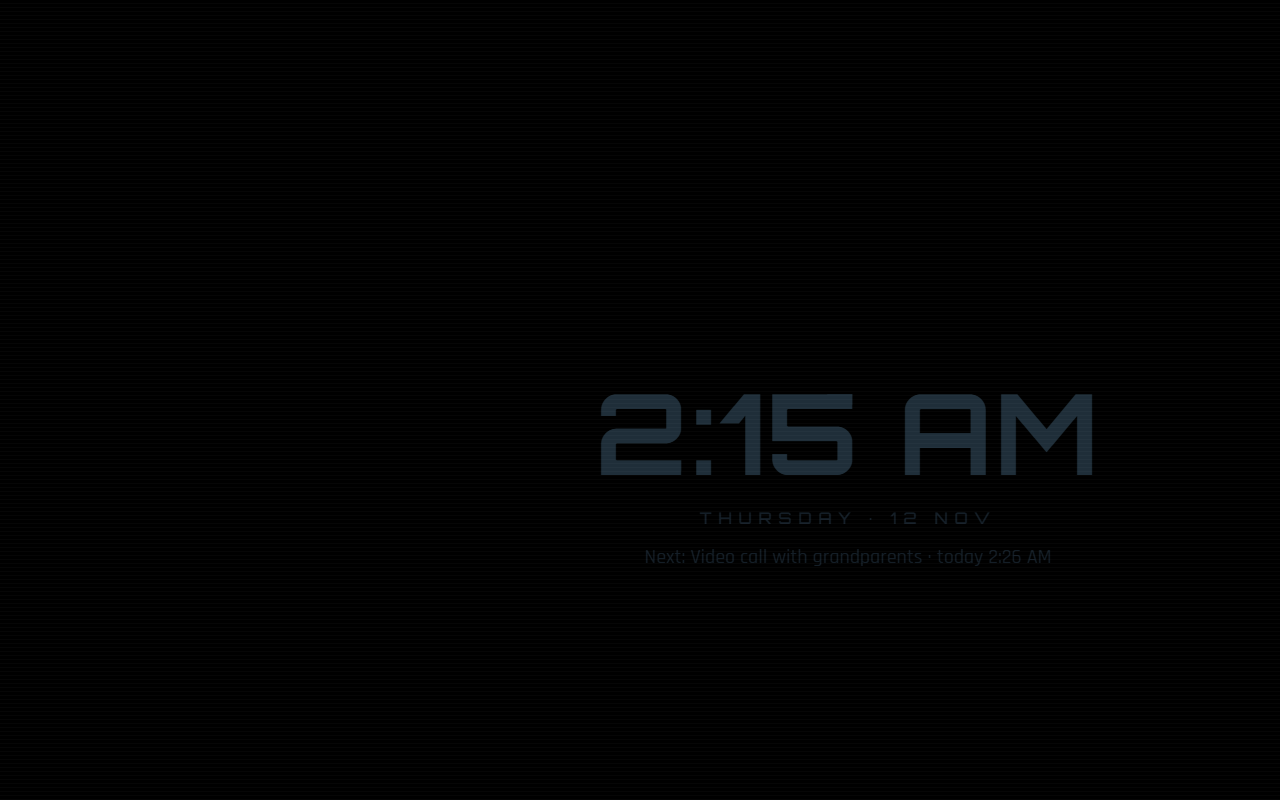
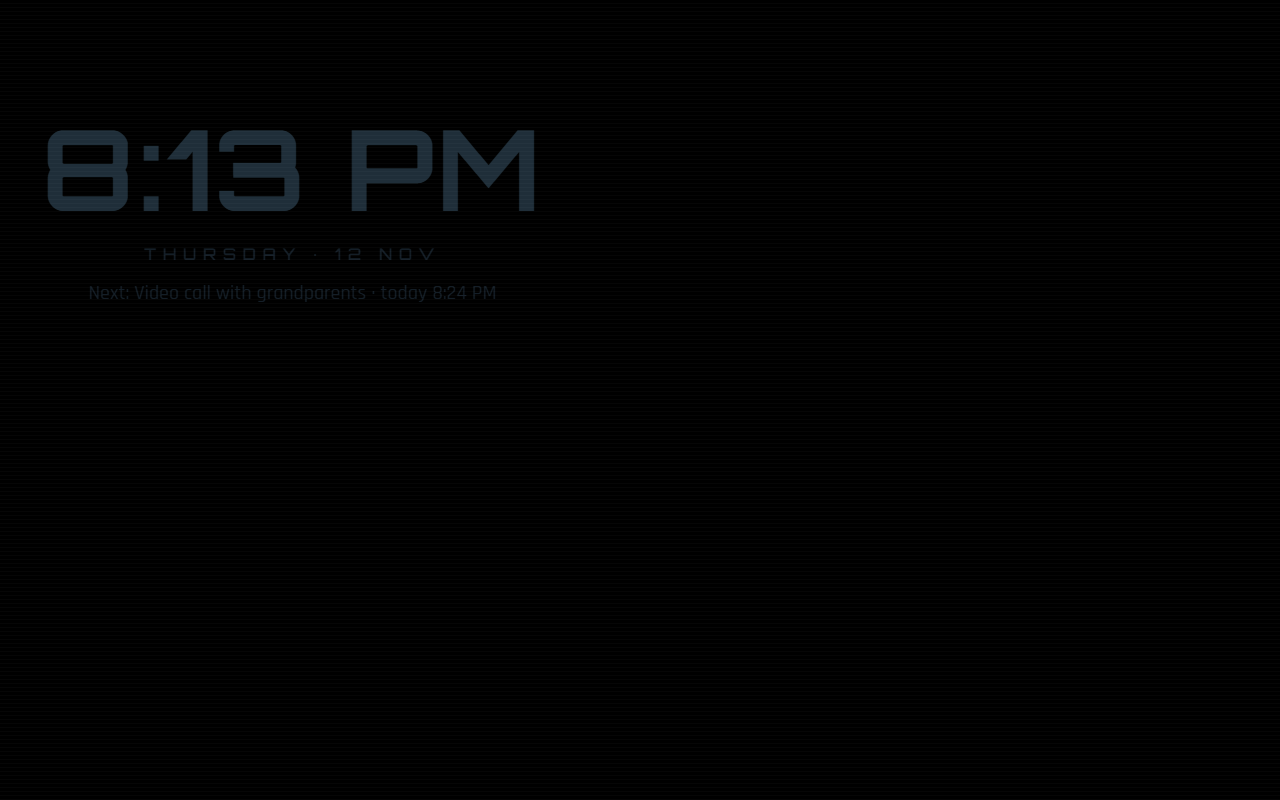
Add portrait layout, faster calendar sync, and fix day-column overflow
- Layout follows the tablet: 960x600 landscape stage, new 600x960 portrait
  stage with stacked priority/weather and a full-width timeline; overlays
  (briefing, alerts, day detail, mantra, night clock) adapt to portrait
- Calendar sync: refresh every 2 minutes, 1-minute server cache, and tapping
  the logo forces a fresh read (getData force flag)
- Fix week columns growing past the panel and cutting off the last event
  instead of showing "+N MORE" (grid rows now minmax(0,1fr)); re-fit after
  web fonts load and after rotation
- Docs: portrait screenshot, auto-rotate and fast-sync notes; regenerated
  screenshots; ignore local editor settings

diff --git a/src/dashboard.html b/src/dashboard.html
@@ -118,8 +118,8 @@ body{background:radial-gradient(1100px 650px at 72% -12%,#0c2a58 0%,transparent 
 
 /* ---------- week ---------- */
 #pWeek{left:304px;top:54px;width:646px;height:390px;padding:10px 10px 8px}
-#cols{position:absolute;left:10px;right:10px;top:30px;bottom:9px;display:grid;grid-template-columns:repeat(7,1fr);gap:6px}
-.col{position:relative;display:flex;flex-direction:column;min-width:0;background:rgba(255,255,255,.018);border:1px solid var(--line2);cursor:pointer}
+#cols{position:absolute;left:10px;right:10px;top:30px;bottom:9px;display:grid;grid-template-columns:repeat(7,1fr);grid-template-rows:minmax(0,1fr);gap:6px}
+.col{position:relative;display:flex;flex-direction:column;min-width:0;min-height:0;background:rgba(255,255,255,.018);border:1px solid var(--line2);cursor:pointer}
 .col.today{border-color:rgba(62,232,255,.6);background:linear-gradient(180deg,rgba(62,232,255,.10),rgba(62,232,255,.02) 40%);box-shadow:0 0 18px rgba(62,232,255,.15) inset}
 .col.wkend .dow{color:var(--violet)}
 .ch{padding:6px 6px 5px;border-bottom:1px solid var(--line2);display:flex;align-items:flex-end;justify-content:space-between}
@@ -256,6 +256,35 @@ body{background:radial-gradient(1100px 650px at 72% -12%,#0c2a58 0%,transparent 
 #bootTxt .wn{color:var(--amber)}
 #bootBar{position:absolute;left:60px;right:60px;top:430px;height:3px;background:var(--line2)}
 #bootBar i{display:block;height:100%;width:0;background:linear-gradient(90deg,var(--cyan),var(--violet));box-shadow:0 0 12px var(--cyan);transition:width 2.2s cubic-bezier(.2,.7,.2,1)}
+
+/* ---------- portrait (tablet held upright): 600×960 stage ---------- */
+body.portrait #stage{width:600px;height:960px}
+body.portrait #wxMini,body.portrait #snd.on{display:none}
+body.portrait #logo .t2{display:none}
+body.portrait #ticker{font-size:9.5px;letter-spacing:1.5px}
+body.portrait #pClock{left:10px;top:54px;width:284px;height:300px}
+body.portrait #pNext{left:304px;top:54px;width:286px;height:146px;padding:14px 16px}
+body.portrait #pNext #nxTitle{font-size:20px;white-space:normal;display:-webkit-box;-webkit-line-clamp:2;-webkit-box-orient:vertical;margin-top:10px}
+body.portrait #pNext #nxCount{margin-top:10px}
+body.portrait #pWx{left:304px;top:208px;width:286px;height:146px;padding:14px 16px}
+body.portrait #wxMain{margin-top:12px !important}
+body.portrait #pWeek{left:10px;top:362px;width:580px;height:448px}
+body.portrait #cols{gap:4px}
+body.portrait .ev .nm{-webkit-line-clamp:3}
+body.portrait #pTx{left:10px;top:818px;width:580px;height:132px}
+body.portrait .q{font-size:17px}
+body.portrait .q.big{font-size:19px}
+body.portrait .dev{font-size:16px}
+body.portrait #dayOv .panel{left:24px;right:24px;top:60px;bottom:60px}
+body.portrait #alertBox{width:540px}
+body.portrait #mBox{left:30px;right:30px}
+body.portrait #mLines .ln{font-size:24px}
+body.portrait #bBox{left:36px;right:36px;top:40px;bottom:40px}
+body.portrait #bGrid{flex-direction:column;gap:16px}
+body.portrait #bWx{width:auto;display:flex;align-items:center;gap:16px}
+body.portrait #bWx .m{margin-top:0}
+body.portrait #bQuote{right:0;bottom:70px}
+body.portrait #toast{left:20px;right:20px;width:auto}
 
 #toast{position:absolute;right:20px;bottom:20px;width:300px;z-index:42;padding:12px 14px;display:none;background:linear-gradient(var(--panel2),var(--panel2)) padding-box,linear-gradient(140deg,var(--green),rgba(62,232,255,.3)) border-box}
 #toast.show{display:block;animation:slideIn .5s ease-out}
@@ -418,7 +447,7 @@ const CFG = Object.assign({
   reminderMinutes:[1440,180,60], headsUpMinutes:15,
   nightMode:{start:'22:30',end:'05:30'},
   mantraAutoplay:{morning:'06:30',evening:'19:00'},
-  morningBriefing:'07:15', refreshMinutes:10
+  morningBriefing:'07:15', refreshMinutes:2
 }, window.FD_CONFIG || {});
 
 /* =====================================================================
@@ -1119,8 +1148,8 @@ if ('speechSynthesis' in window) { try { speechSynthesis.onvoiceschanged = () =>
 const GAS = !!(window.google && google.script && google.script.run);
 function withTimeout(p, ms) { return Promise.race([p, new Promise((_, rej) => setTimeout(() => rej(new Error('timeout')), ms))]); }
 function gas(fn, ...args) { return new Promise((res, rej) => google.script.run.withSuccessHandler(res).withFailureHandler(rej)[fn](...args)); }
-async function apiData() {
-  if (GAS) return JSON.parse(await withTimeout(gas('getData', window.FD_KEY || ''), 45000));
+async function apiData(force) {
+  if (GAS) return JSON.parse(await withTimeout(gas('getData', window.FD_KEY || '', !!force), 45000));
   const r = await withTimeout(fetch('api/data', { cache: 'no-store' }), 20000);
   if (!r.ok) throw new Error('HTTP ' + r.status);
   return r.json();
@@ -1135,10 +1164,10 @@ async function apiWeather(lat, lon) {
 const ymd = (s) => { const [y, m, d] = String(s).split('-').map(Number); return new Date(y, m - 1, d); };
 
 let retryTimer = null;
-async function loadData() {
+async function loadData(force) {
   let payload = null;
   try {
-    payload = await apiData();
+    payload = await apiData(force === true);
     store.set('nx-cache', payload);
     S.lastSync = Date.now(); store.set('nx-lastSync', S.lastSync); S.syncErr = null;
   } catch (e) {
@@ -1595,7 +1624,8 @@ function renderNight(now) {
   $('#nN').textContent = t ? `Next: ${t.title} · ${dayWord(t.start, now).toLowerCase()} ${fmtTime(t.start)}` : '';
   if (now.getSeconds() === 0 || !ov.dataset.placed) {
     ov.dataset.placed = 1; const nc = $('#nightClock');
-    nc.style.left = (180 + Math.random() * 300) + 'px'; nc.style.top = (120 + Math.random() * 260) + 'px';
+    const w = nc.offsetWidth || 500, h = nc.offsetHeight || 160; // drift within the current stage (landscape or portrait)
+    nc.style.left = (20 + Math.random() * Math.max(0, STAGE.w - w - 40)) + 'px'; nc.style.top = (60 + Math.random() * Math.max(0, STAGE.h - h - 120)) + 'px';
   }
 }
 
@@ -1688,9 +1718,16 @@ function tick() {
   if (now.getHours() === 3 && now.getMinutes() === 30 && now.getSeconds() === 0) location.reload();
 }
 
+/* Layout follows how the tablet is held: 960×600 landscape stage, or 600×960 portrait stage. */
+const STAGE = { w: 960, h: 600 };
 function fit() {
-  const s = Math.min(innerWidth / 960, innerHeight / 600);
+  const portrait = innerHeight > innerWidth * 1.05;
+  const changed = portrait !== document.body.classList.contains('portrait');
+  document.body.classList.toggle('portrait', portrait);
+  STAGE.w = portrait ? 600 : 960; STAGE.h = portrait ? 960 : 600;
+  const s = Math.min(innerWidth / STAGE.w, innerHeight / STAGE.h);
   $('#stage').style.transform = `translate(-50%,-50%) scale(${s})`;
+  if (changed && S.events) { try { renderWeek(); } catch (e) {} setTimeout(() => { try { renderWeek(); } catch (e) {} }, 400); delete $('#nightOv').dataset.placed; }
 }
 function stars() {
   let sh = []; const W = Math.max(innerWidth, 1400), H = Math.max(innerHeight, 900) * 2;
@@ -1721,6 +1758,9 @@ async function keepAwake() {
 function init() {
   $('#ttl').textContent = CFG.title || 'NEXUS'; $('#sub').textContent = CFG.subtitle || 'FAMILY COMMAND DECK';
   fit(); stars(); ticks(); addEventListener('resize', fit);
+  addEventListener('orientationchange', () => { setTimeout(fit, 250); setTimeout(fit, 800); });
+  // re-fit the day columns ("+N MORE") once web fonts have loaded and text has its final size
+  try { document.fonts.ready.then(() => { try { renderWeek(); } catch (e) {} }); } catch (e) {}
   document.addEventListener('pointerdown', () => { if (!AU.unlocked) AU.unlock(); if (isNight(new Date())) { S.nightPeek = Date.now() + 60000; renderNight(new Date()); } }, true);
   $('#cols').addEventListener('click', (e) => { const c = e.target.closest('.col'); if (c) openDay(c.dataset.day); });
   document.querySelectorAll('[data-close]').forEach((b) => (b.onclick = () => $('#' + b.dataset.close).classList.remove('show')));
@@ -1736,7 +1776,7 @@ function init() {
     $('#toastM').textContent = `Source: ${GAS ? 'Google Apps Script' : 'local preview'} · Events: ${S.events.length} · Holidays: ${S.holidays.length} · Last error: ${S.syncErr || 'none'} · Weather: ${S.wxErr || (S.wx ? 'ok' : 'waiting')} · US holidays: ${S.holidayInfo || '?'} · Audio: ${S.audioErr || 'ok'} · Hindi voice: ${AU.pick('hi') ? 'yes' : 'no'} · Voices: ${langs}`;
     $('#toast').classList.add('show');
   };
-  $('#logo').onclick = () => { $('#bootOv').classList.remove('hide'); boot(); loadData(); loadWeather(); };
+  $('#logo').onclick = () => { $('#bootOv').classList.remove('hide'); boot(); loadData(true); loadWeather(); }; // tap logo = sync now
   $('#txSlide').onclick = () => { showSlide(slideI + 1); clearInterval(slideTimer); slideTimer = setInterval(() => showSlide(slideI + 1), 20000); };
   document.addEventListener('visibilitychange', keepAwake); keepAwake();
 
@@ -1751,7 +1791,7 @@ function init() {
   S.dayKey = dayKey(new Date());
   tick(); setInterval(tick, 1000);
   setInterval(rotateTicker, 7000); rotateTicker();
-  setInterval(loadData, Math.max(2, CFG.refreshMinutes || 10) * 60000);
+  setInterval(loadData, Math.max(1, CFG.refreshMinutes || 2) * 60000);
   setInterval(loadWeather, 30 * 60000);
 }
 init();

diff --git a/tools/screenshots.py b/tools/screenshots.py
@@ -94,6 +94,11 @@ def main():
         time.sleep(1.5); p.shot("alert")
         p.js(CLEAN); p.js("(() => { openDay(startOfDay(addDaysD(new Date(), 1)).getTime()); })()"); time.sleep(1.5); p.shot("day-detail")
         p.js(CLEAN); p.js("(() => { CFG.nightMode = {start:'00:00', end:'23:59'}; S.nightPeek = 0; renderNight(new Date()); })()"); time.sleep(2.5); p.shot("night")
+        # portrait: the tablet held upright
+        p.js("(() => { CFG.nightMode = null; })()")
+        p.call("Emulation.setDeviceMetricsOverride", width=800, height=1280, deviceScaleFactor=1, mobile=False)
+        p.js("dispatchEvent(new Event('resize'))"); time.sleep(1.5)
+        p.js(CLEAN); p.js("showSlide(0)"); time.sleep(1.5); p.shot("dashboard-portrait")
     finally:
         chrome.terminate(); server.terminate()
         time.sleep(1); shutil.rmtree(profile, ignore_errors=True)

diff --git a/README.md b/README.md
@@ -35,13 +35,17 @@ NEXUS turns it into a dedicated wall display that just works:
 | ☀ **Morning briefing** | At 7:15 a sunrise card with a chime shows the greeting, weather, today's events and the next priority. Tap the clock to see it any time. |
 | 🌦 **Live weather** | Current conditions, a 7‑day forecast, sunrise/sunset and moon phase (Open‑Meteo, fetched by Google). |
 | 🌙 **Night mode** | A dim, drifting clock overnight. Tap to peek at the full dashboard. |
+| 🔄 **Follows the tablet** | Landscape layout when the tablet stands sideways, a dedicated portrait layout when it's upright. Switches instantly on rotation. |
+| ⚡ **Fast sync** | Calendar edits appear within about 2 minutes. Tap the logo to sync immediately. |
 | 🎲 **Transmission panel** | A rotating card: mantra, quote and message of the day, festival countdowns, fun fact and riddle. |
 | 🔒 **Private by design** | Key‑protected web app, settings in your Google account, and no personal data in this repo. |
 
 ## 📸 Screens
 
-| Morning briefing | Mantra player |
+| Portrait (tablet upright) | Night mode |
 |---|---|
+| <img src="docs/screenshots/dashboard-portrait.png" alt="Portrait layout: clock, priority and weather on top, the 7-day timeline below" width="420"> | <img src="docs/screenshots/night.png" alt="Dim drifting night clock"> |
+| **Morning briefing** | **Mantra player** |
 | <img src="docs/screenshots/briefing.png" alt="Morning briefing card with weather and today's events"> | <img src="docs/screenshots/mantra.png" alt="Gayatri mantra with the current line highlighted"> |
 | **Priority alert** | **Day detail** |
 | <img src="docs/screenshots/alert.png" alt="Full-screen priority alert with countdown"> | <img src="docs/screenshots/day-detail.png" alt="All events and festivals for one day"> |
@@ -67,7 +71,7 @@ flowchart LR
     AS -- "events · weather · audio" --> TAB
 ```
 
-- **Frontend** (`src/dashboard.html`): plain HTML, CSS and JavaScript, no framework, no build step. It renders a 960×600 stage scaled to any screen and includes:
+- **Frontend** (`src/dashboard.html`): plain HTML, CSS and JavaScript, no framework, no build step. It renders a 960×600 stage (600×960 when upright), scaled to any screen, and includes:
   - an iCalendar parser with RRULE expansion;
   - the Panchang astronomy (Meeus algorithms, Lahiri ayanamsa);
   - Web Audio chimes and drone, and the mantra player.
@@ -102,6 +106,7 @@ All settings live in `src/config.local.json` (git‑ignored). Start from [`src/c
 | `mantraAudio` | Google Drive share links for the recordings in `audio/`. |
 | `mantraAutoplay`, `morningBriefing` | Schedule (default 06:30 / 19:00, briefing 07:15). |
 | `nightMode` | Dim clock window, e.g. `{"start":"22:30","end":"05:30"}`, or `null` to stay bright. |
+| `refreshMinutes` | How often the tablet re‑reads the calendars (default 2). The server caches for 1 minute. |
 
 ### Event naming
 

diff --git a/docs/SETUP.md b/docs/SETUP.md
@@ -109,7 +109,7 @@ Tested on a Lenovo TAB3 8 (Android 6, WebView 95) with Fully Kiosk Browser 1.61.
 - *Advanced Web → Keep Screen On*: on.
 - *Device Management → Launch on Boot*: on.
 - *Web Auto Reload*: reload on network reconnect, and 60 s after a page error.
-- Fullscreen; landscape orientation.
+- Fullscreen; *Device Management → Screen Orientation*: **Auto**, so the layout follows the tablet. Also turn on Android's **Auto‑rotate** (quick settings).
 - *Unlock Screen*: **off**. When on, it disables the Android lock screen entirely.
 
 **Entering the long link:** typing it on the tablet is painful. With USB debugging on, open the Start URL field and type it from the PC:
@@ -124,7 +124,8 @@ adb shell input text '<your key>'
 - Scheduled mantras need one tap on the screen after each page load. That's a browser rule.
 - The briefing card shows either way.
 - Tap the **clock** for today's briefing.
-- Tap the **NEXUS logo** to reload data.
+- Tap the **NEXUS logo** to sync the calendars now. Otherwise they update every 2 minutes.
+- Turn the tablet: the dashboard switches between the landscape and portrait layouts.
 - Tap **LIVE** for diagnostics.
 
 ## 🔒 Locking it down
@@ -144,7 +145,7 @@ adb shell input text '<your key>'
 2. Run `python tools/build.py`.
 3. Paste `dist/Code.gs` and/or `dist/Index.html` into the project.
 4. **Deploy → Manage deployments → ✏ → Version: New version → Deploy.** The link and key stay the same.
-5. Tap the NEXUS logo on the tablet, or wait about 10 minutes.
+5. Tap the NEXUS logo on the tablet. Page changes (`Index`) load on the next page reload or at 03:30.
 
 ## 8. Troubleshooting
 
